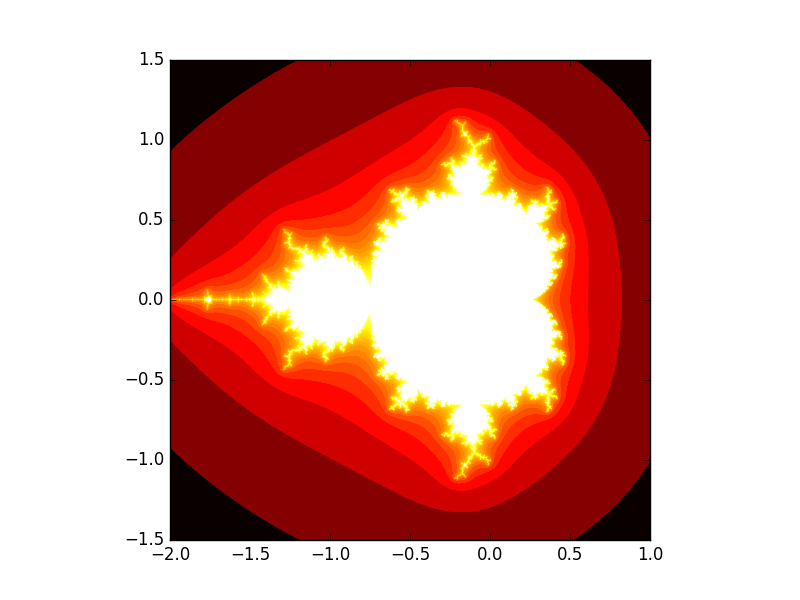
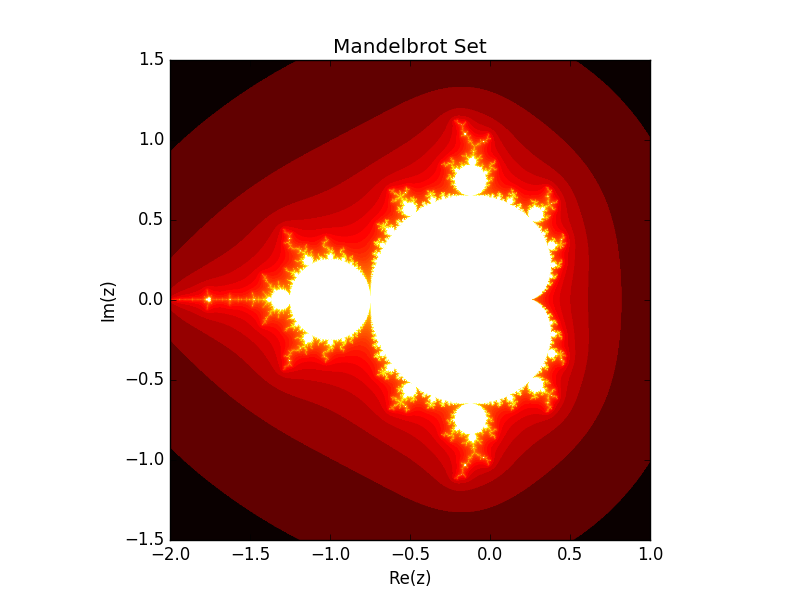
new version mandelbrot with basic cretion of brot on the S3 server. Works wellgit status!

diff --git a/templates/mandelapp/index.html b/templates/mandelapp/index.html
@@ -52,9 +52,7 @@
 					<input type="submit" class="btn btn-success" value="Mandelbrot"/>
 				</form>
 				{% if outputcode == 1 %}
-					{{ settings.DATABASES.NAME }}
-					{% load static %}
-					<img class="col-lg-4" src="{% static 'brot.png' %}" alt="Mon image" />
+					<img src="{{ path }}"/>
 				{% endif %}
 			</div>
 		</div>

diff --git a/mandelapp/views.py b/mandelapp/views.py
@@ -3,6 +3,26 @@ from django.http import HttpResponse
 from django.shortcuts import render
 from django.conf import settings
 from pylab import *
+import matplotlib
+#matplotlib.use('Agg')
+
+import boto
+import boto.s3.connection
+
+
+
+#for bucket in conn.get_all_buckets():
+#        print("{name}\t{created}".format(
+#                name = bucket.name,
+#                created = bucket.creation_date,
+#        ))
+
+#for bucket in conn.get_all_buckets():
+#        print("{name}\t{created}".format(
+#                name = bucket.name,
+#                created = bucket.creation_date,
+#        ))
+
 
 def home(request):
 	return render(request, 'mandelapp/index.html')
@@ -12,10 +32,19 @@ def show(request):
 	h = int(request.GET.get('h', ''))
 	it = int(request.GET.get('it', ''))
 	path = show_mandel(w, h, it)
-	return render(request, 'mandelapp/index.html', {'outputcode':1 })
-	
+	return render(request, 'mandelapp/index.html', {'outputcode':1, 'path': path})
+
 def show_mandel(w, h, it):
-	path = "brot.png"
+	path = "mandelbrot.png"
+	access_key = 'AKIAIRBBN7ZV7UPV7F6A'
+	secret_key = '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'
+	conn = boto.connect_s3(
+	        aws_access_key_id = access_key,
+	        aws_secret_access_key = secret_key,
+	        calling_format = boto.s3.connection.OrdinaryCallingFormat(),
+	)
+	bucket = conn.create_bucket('mandelbrots3')
+	key = bucket.new_key('mandelbrot.png')
 	iterations = it
 	density = 1000
 	x_min, x_max = -2, 1
@@ -30,8 +59,12 @@ def show_mandel(w, h, it):
 		z[indices] = z[indices]**2 + c[indices]
 		m[indices] = n
 	imshow(log(m), cmap=cm.hot, extent=(x_min, x_max, y_min, y_max))
-	savefig("/home/herval/Documents/THB/Master/Semester1/SI/mandelbrot/Django-1.8.15/mandelbrot/assets/"+path)
+	path_save = "/home/ubuntu/Django-1.8.15/django/bin/Mandelbrot/assets/"+path
+	savefig(path_save)
 	title('Mandelbrot Set')
 	xlabel('Re(z)')
 	ylabel('Im(z)')
-	return path
+	key.set_contents_from_filename(path_save)
+	key.set_canned_acl('public-read')
+	url = key.generate_url(expires_in=10, query_auth=False, force_http=True)
+	return url

diff --git a/mandelbrot/settings.py b/mandelbrot/settings.py
@@ -55,7 +55,7 @@ ROOT_URLCONF = 'mandelbrot.urls'
 TEMPLATES = [
     {
         'BACKEND': 'django.template.backends.django.DjangoTemplates',
-        'DIRS': ['/home/herval/Documents/THB/Master/Semester1/SI/mandelbrot/Django-1.8.15/mandelbrot/templates'],
+        'DIRS': ['/home/ubuntu/Django-1.8.15/django/bin/Mandelbrot/templates'],
         'APP_DIRS': True,
         'OPTIONS': {
             'context_processors': [
@@ -89,7 +89,8 @@ MEDIA_ROOT = os.path.join(BASE_DIR, 'media')
 STATIC_URL = '/assets/'
 
 STATICFILES_DIRS = (
-    "/home/herval/Documents/THB/Master/Semester1/SI/mandelbrot/Django-1.8.15/mandelbrot/assets/",
+    #"/home/ubuntu/Django-1.8.15/django/bin/Mandelbrot/assets/",
+    "http://s3.amazonaws.com/uebung/",
 )
 # Internationalization
 # https://docs.djangoproject.com/en/1.8/topics/i18n/
@@ -108,7 +109,8 @@ USE_TZ = True
 # Static files (CSS, JavaScript, Images)
 # https://docs.djangoproject.com/en/1.8/howto/static-files/
 
-STATIC_URL = '/static/'
+#STATIC_URL = '/static/'
+STATIC_URL = 'http://s3.amazonaws.com/uebung/'
 
 TEMPLATE_DEBUG = DEBUG
 

diff --git a/buckets.py b/buckets.py
@@ -1,0 +1,30 @@
+import boto
+import boto.s3.connection
+
+access_key = 'AKIAIRBBN7ZV7UPV7F6A'
+secret_key = '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'
+
+conn = boto.connect_s3(
+        aws_access_key_id = access_key,
+        aws_secret_access_key = secret_key,
+        calling_format = boto.s3.connection.OrdinaryCallingFormat(),
+)
+
+for bucket in conn.get_all_buckets():
+        print("{name}\t{created}".format(
+                name = bucket.name,
+                created = bucket.creation_date,
+        ))
+
+bucket = conn.create_bucket('mandelbrots3')
+for bucket in conn.get_all_buckets():
+        print("{name}\t{created}".format(
+                name = bucket.name,
+                created = bucket.creation_date,
+        ))
+
+key = bucket.new_key('mediabrot.png')
+key.set_contents_from_filename('mediabrot.png')
+key.set_canned_acl('public-read')
+url = key.generate_url(expires_in=10, query_auth=False, force_http=True)
+print('URL: {}'.format(url))
